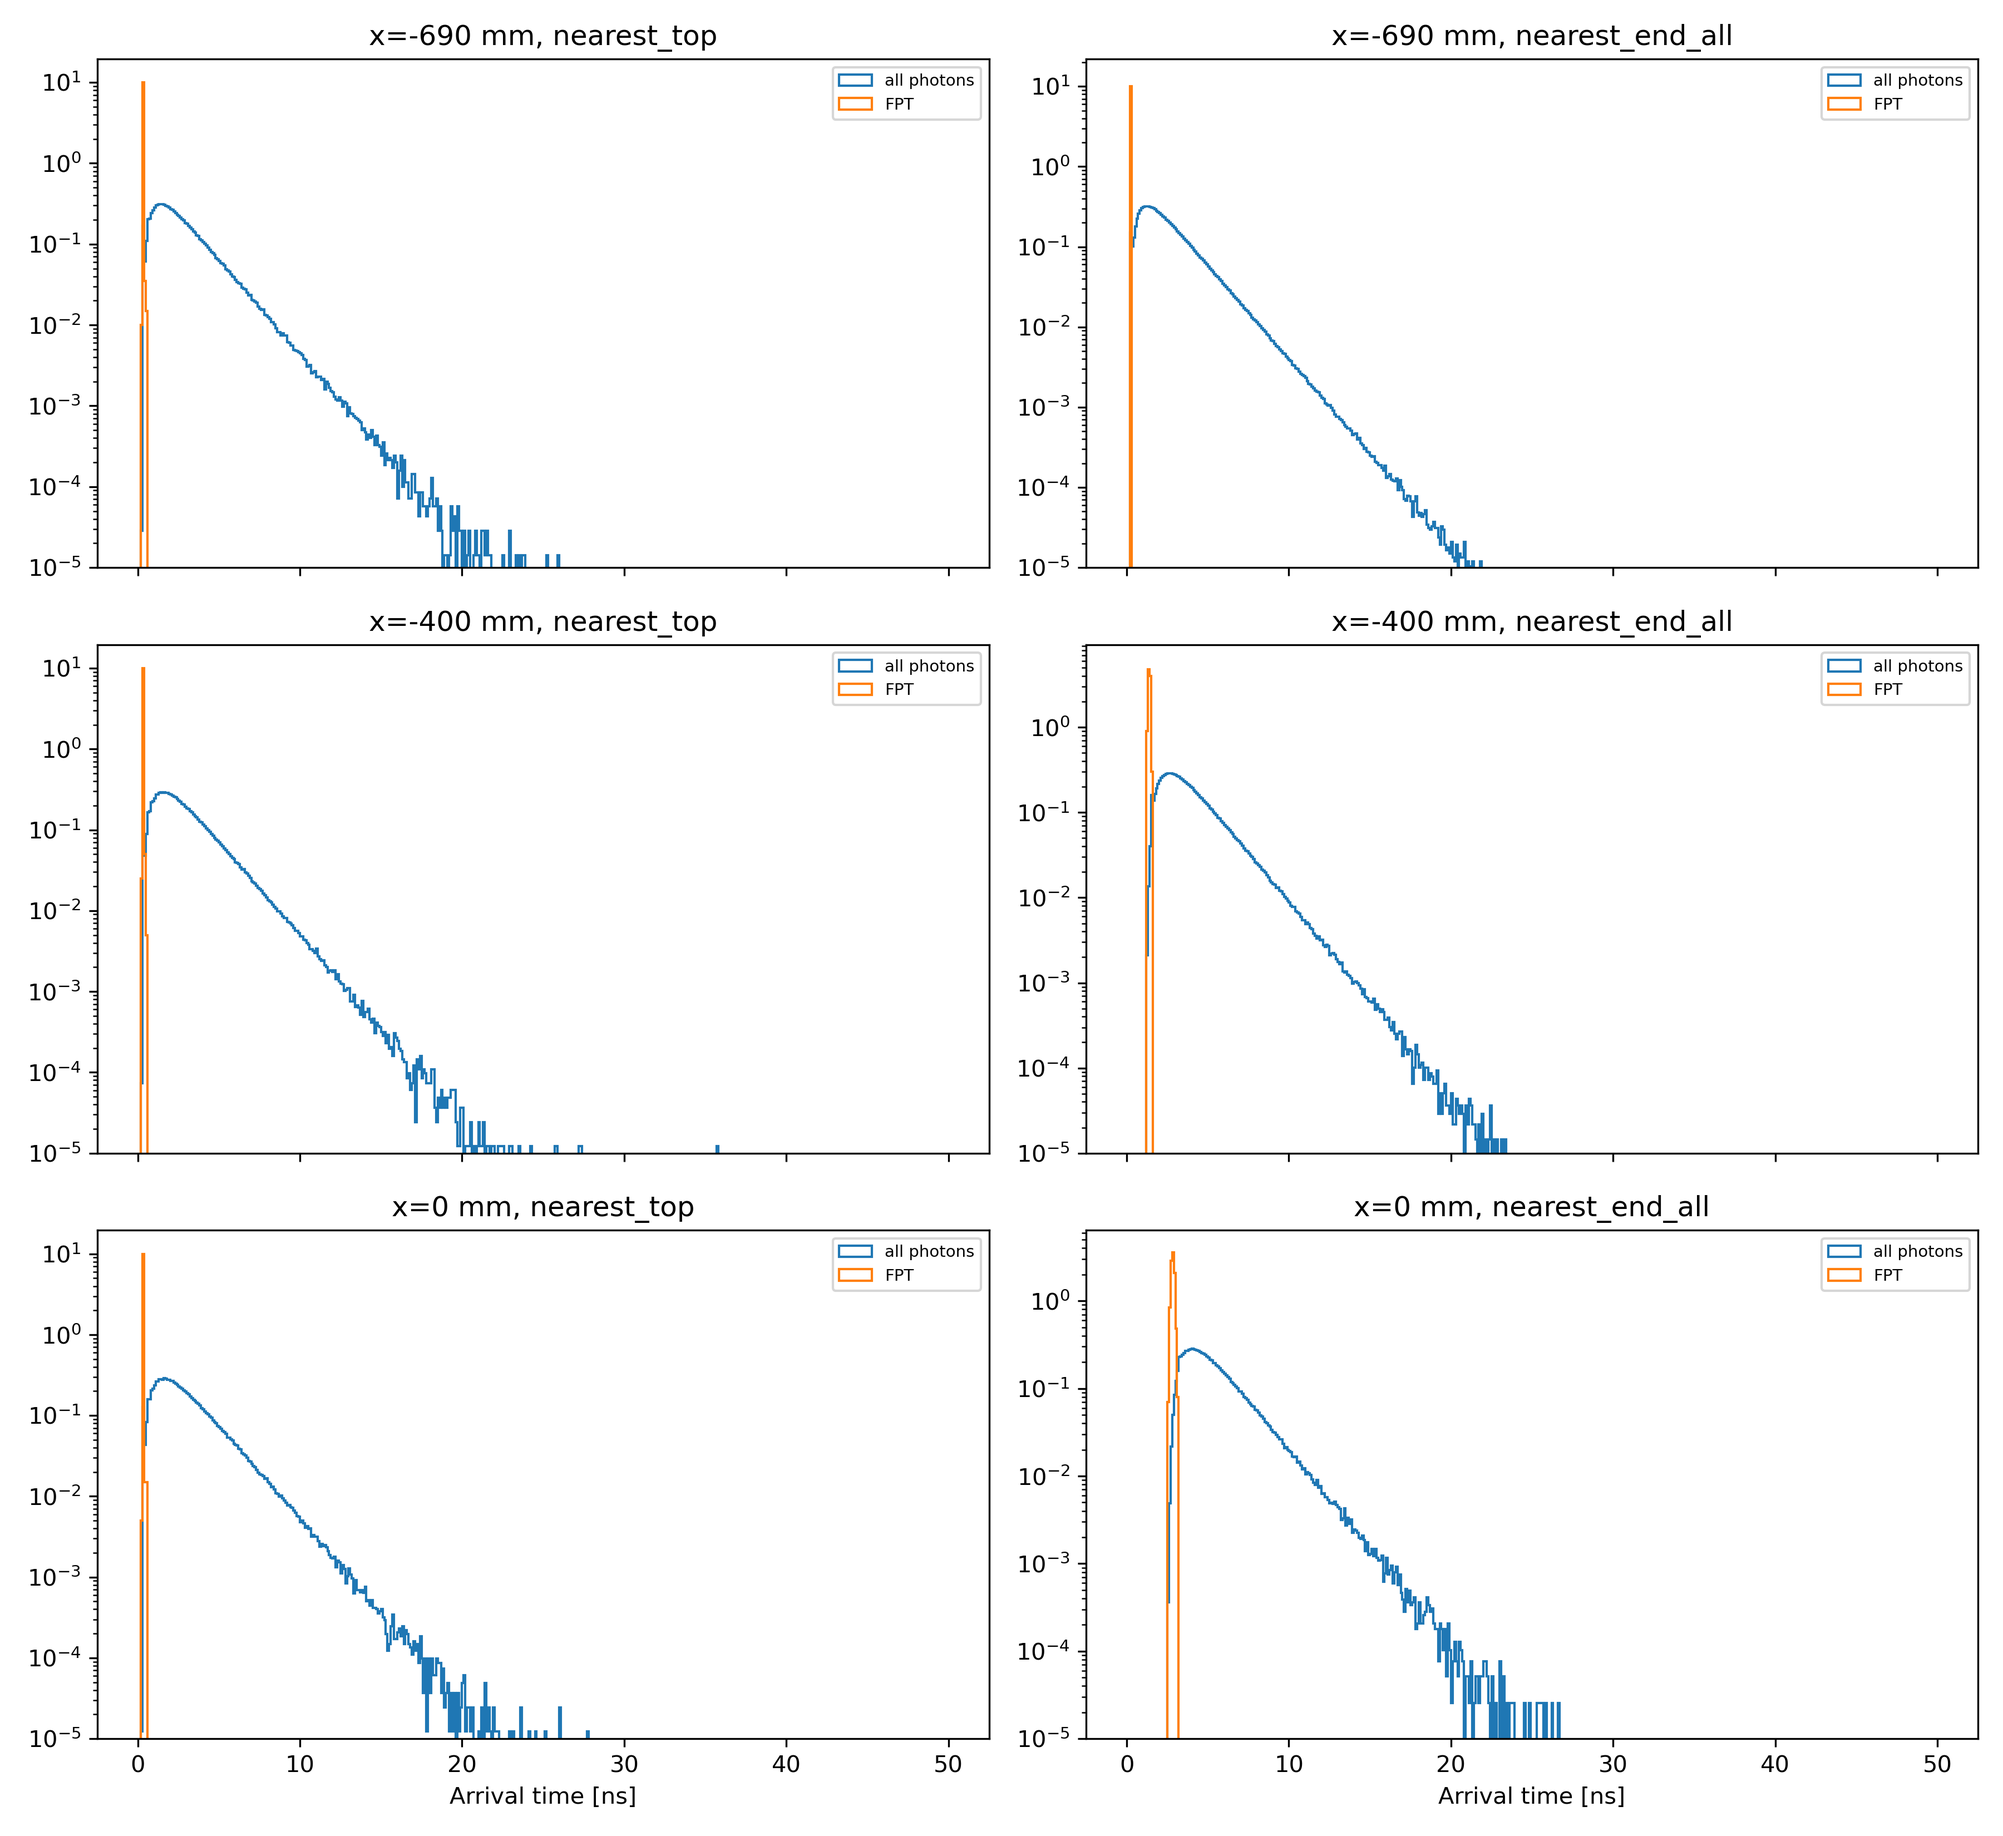
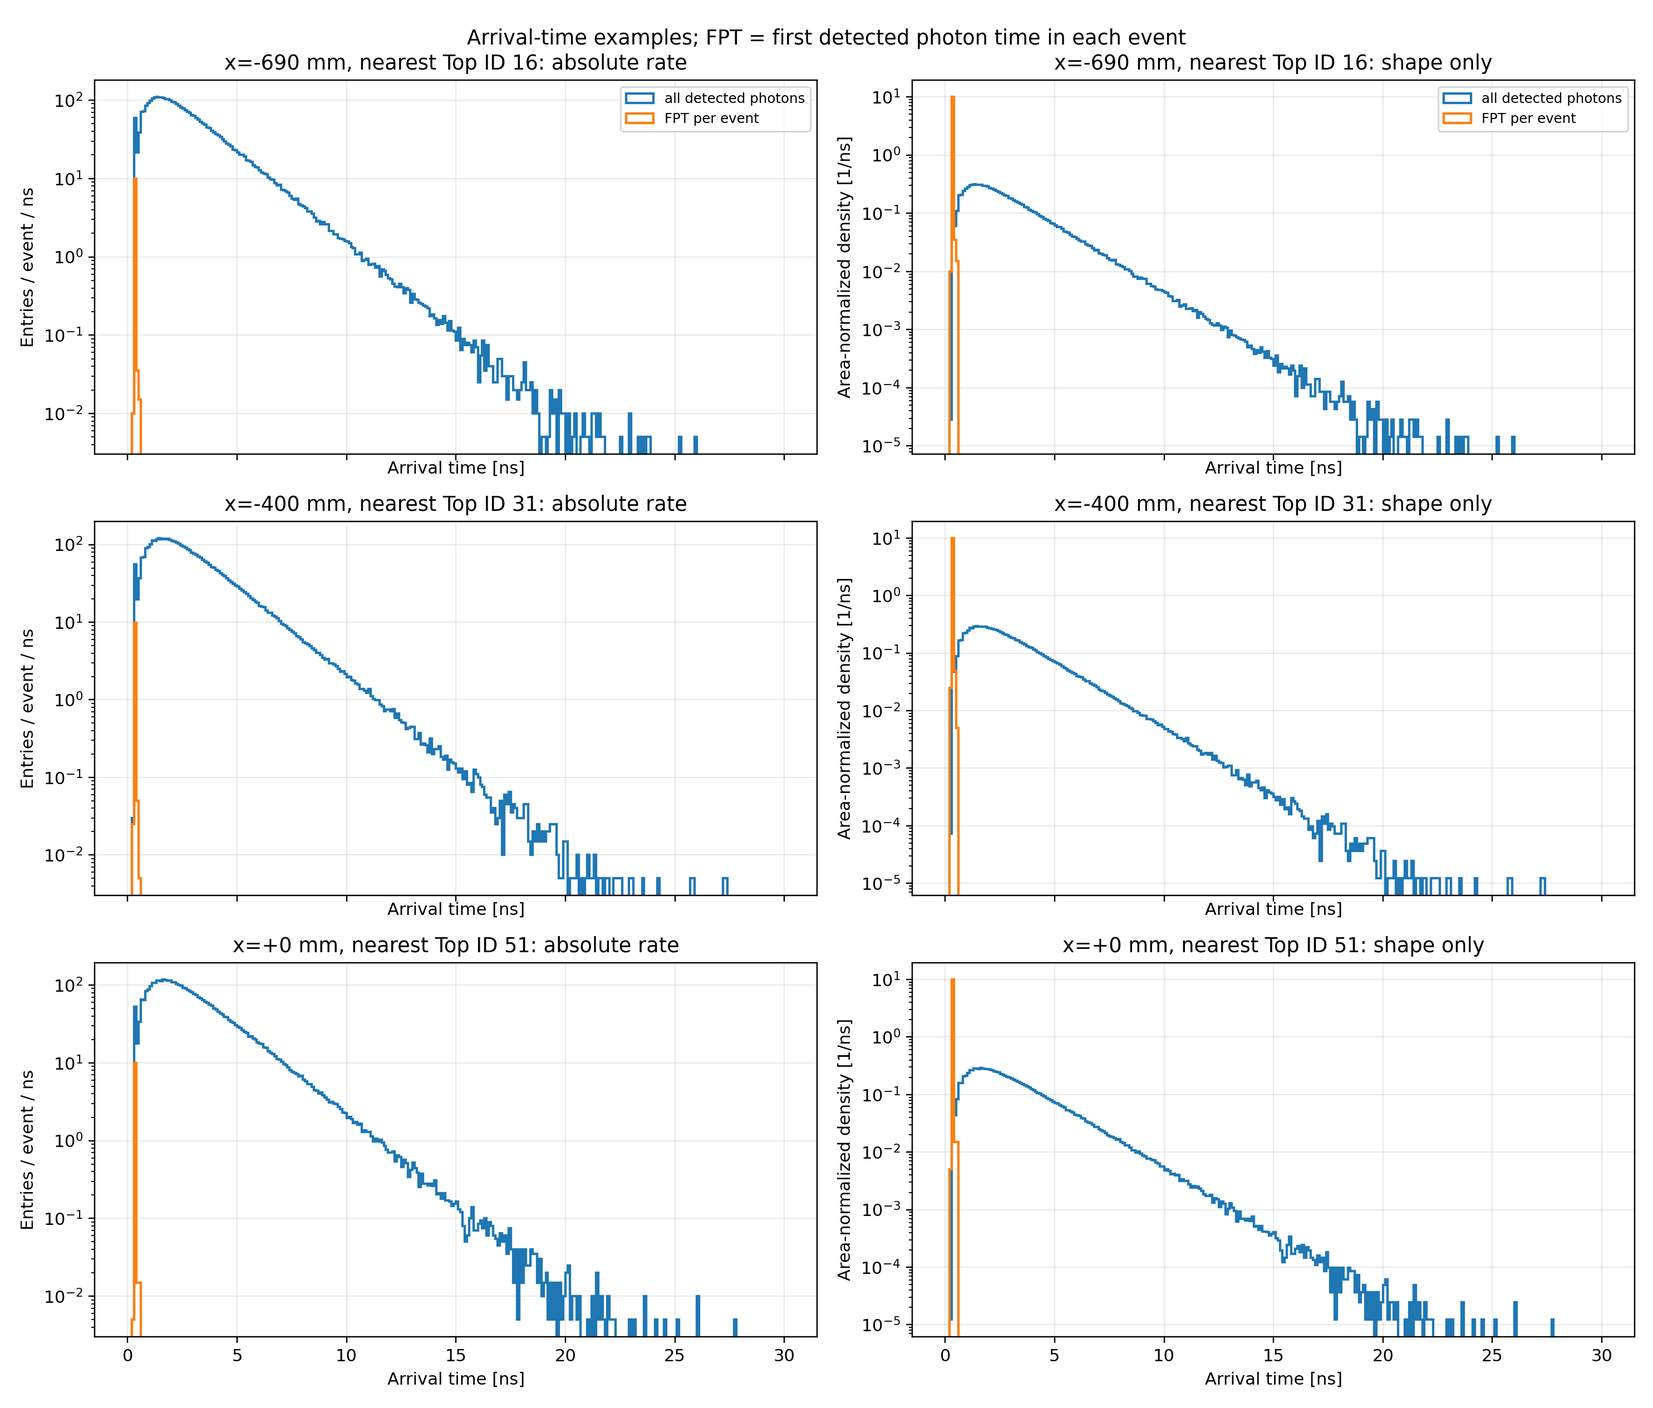
analysis(exec10): clarify absolute and normalized timing plots
Separates photon-rate loss from normalized tail-shape suppression and defines FPT in the arrival-time examples.

diff --git a/analysis/exec07/exec09_timing_mechanism.py b/analysis/exec07/exec09_timing_mechanism.py
@@ -82,8 +82,9 @@ def load_end_hits(path: pathlib.Path, expected_x: int) -> tuple[np.ndarray, np.n
     )
 
 
-def analyze_file(path: pathlib.Path, campaign: str, x_mm: int) -> tuple[list[dict], np.ndarray]:
+def analyze_file(path: pathlib.Path, campaign: str, x_mm: int) -> tuple[list[dict], np.ndarray, int]:
     event_id, global_id, time_ns = load_end_hits(path, x_mm)
+    n_events = int(np.max(event_id)) + 1
     rows = []
     for group, ids in GROUPS.items():
         selected = np.isin(global_id, ids)
@@ -98,7 +99,7 @@ def analyze_file(path: pathlib.Path, campaign: str, x_mm: int) -> tuple[list[dic
             row[name] = central[name]
             row[f"{name}_error"] = errors[name]
         rows.append(row)
-    return rows, time_ns
+    return rows, time_ns, n_events
 
 
 def comparisons(raw: pd.DataFrame) -> pd.DataFrame:
@@ -120,26 +121,29 @@ def comparisons(raw: pd.DataFrame) -> pd.DataFrame:
 
 
 def plot_overlays(
-    all_end: dict[tuple[str, int], np.ndarray], raw: pd.DataFrame, output: pathlib.Path,
+    all_end: dict[tuple[str, int], tuple[np.ndarray, int]], raw: pd.DataFrame, output: pathlib.Path,
 ) -> None:
     bins = np.linspace(0.0, 50.0, 251)
-    fig, axes = plt.subplots(1, 3, figsize=(14.5, 4.5), sharex=True, sharey=True)
-    for axis, x_mm in zip(axes, POSITIONS):
+    bin_width = bins[1] - bins[0]
+    fig, axes = plt.subplots(3, 2, figsize=(13.5, 12), sharex=True)
+    for row_index, x_mm in enumerate(POSITIONS):
         for campaign, color in (("End-only", "tab:blue"), ("EndTop", "tab:red")):
-            axis.hist(
-                all_end[(campaign, x_mm)],
-                bins=bins,
-                density=True,
-                histtype="step",
-                linewidth=1.5,
-                color=color,
-                label=campaign,
+            times, n_events = all_end[(campaign, x_mm)]
+            axes[row_index, 0].hist(
+                times, bins=bins,
+                weights=np.full(len(times), 1.0 / (n_events * bin_width)),
+                histtype="step", linewidth=1.5, color=color, label=campaign,
             )
-        axis.set_yscale("log")
-        axis.set_ylim(2e-6, 1.0)
-        axis.set_title(f"x beam = {x_mm:+d} mm")
-        axis.set_xlabel("End photon arrival time [ns]")
-        axis.grid(alpha=0.25)
+            axes[row_index, 1].hist(
+                times, bins=bins, density=True, histtype="step",
+                linewidth=1.5, color=color, label=campaign,
+            )
+        for axis in axes[row_index]:
+            axis.set_yscale("log")
+            axis.set_xlabel("End photon arrival time [ns]")
+            axis.grid(alpha=0.25)
+        axes[row_index, 0].set_title(f"x beam = {x_mm:+d} mm: absolute rate")
+        axes[row_index, 1].set_title(f"x beam = {x_mm:+d} mm: shape only")
         metrics_at_x = raw[(raw.x_beam_mm == x_mm) & (raw.group == "all_end")].set_index("campaign")
         annotation = []
         for campaign in ("End-only", "EndTop"):
@@ -149,14 +153,18 @@ def plot_overlays(
                 f"  f(t>10)={row.frac_gt10:.5f}+/-{row.frac_gt10_error:.5f}\n"
                 f"  f(t>20)={row.frac_gt20:.6f}+/-{row.frac_gt20_error:.6f}"
             )
-        axis.text(
-            0.98, 0.97, "\n".join(annotation), transform=axis.transAxes,
+        axes[row_index, 1].text(
+            0.98, 0.97, "\n".join(annotation), transform=axes[row_index, 1].transAxes,
             ha="right", va="top", fontsize=7,
             bbox={"facecolor": "white", "alpha": 0.82, "edgecolor": "0.75"},
         )
-    axes[0].set_ylabel("Normalized density [1/ns]")
-    axes[0].legend()
-    fig.suptitle("EXEC_09: End arrival-time tail, identical channels and t=0 convention")
+    for axis in axes[:, 0]:
+        axis.set_ylabel("Mean End photons / event / ns")
+    for axis in axes[:, 1]:
+        axis.set_ylabel("Area-normalized density [1/ns]")
+    axes[0, 0].legend()
+    axes[0, 1].legend()
+    fig.suptitle("EXEC_10: End arrival times - absolute photon rate and normalized shape")
     fig.tight_layout()
     output.parent.mkdir(parents=True, exist_ok=True)
     fig.savefig(output, dpi=180)
@@ -179,9 +187,9 @@ def main() -> int:
         ):
             path = directory / files[x_mm]
             print(f"{campaign} x={x_mm}: {path}", flush=True)
-            file_rows, all_times = analyze_file(path, campaign, x_mm)
+            file_rows, all_times, n_events = analyze_file(path, campaign, x_mm)
             rows.extend(file_rows)
-            all_end[(campaign, x_mm)] = all_times
+            all_end[(campaign, x_mm)] = (all_times, n_events)
 
     raw = pd.DataFrame(rows)
     compared = comparisons(raw)

diff --git a/analysis/exec07/exec10_time_figures.py b/analysis/exec07/exec10_time_figures.py
@@ -1,0 +1,69 @@
+#!/usr/bin/env python3
+"""Generate absolute and normalized arrival-time examples for EXEC_10."""
+
+from __future__ import annotations
+
+import argparse
+import pathlib
+
+import matplotlib.pyplot as plt
+import numpy as np
+import pandas as pd
+import uproot
+
+POSITIONS = (-690, -400, 0)
+BINS = np.linspace(0.0, 30.0, 301)
+
+
+def main() -> int:
+    parser = argparse.ArgumentParser()
+    parser.add_argument("--data-dir", required=True, type=pathlib.Path)
+    parser.add_argument("--output-dir", type=pathlib.Path, default=pathlib.Path("analysis/exec07"))
+    args = parser.parse_args()
+    positions = pd.read_csv(args.output_dir / "per_position_exec07.csv").set_index("x_beam_mm")
+    fig, axes = plt.subplots(3, 2, figsize=(13.5, 11.5), sharex=True)
+    bin_width = BINS[1] - BINS[0]
+    for row_index, x_mm in enumerate(POSITIONS):
+        nearest_id = int(positions.loc[x_mm, "nearest_top_id"])
+        with uproot.open(args.data_dir / f"photon_hits_x{x_mm}mm.root") as root_file:
+            arrays = root_file["sipm_hits"].arrays(["event_id", "global_id", "time_ns"], library="np")
+        selected = arrays["global_id"] == nearest_id
+        events = arrays["event_id"][selected].astype(np.int32)
+        times = arrays["time_ns"][selected].astype(float)
+        n_events = int(np.max(arrays["event_id"])) + 1
+        fpt = np.full(n_events, np.inf)
+        np.minimum.at(fpt, events, times)
+        fpt = fpt[np.isfinite(fpt)]
+        axes[row_index, 0].hist(
+            times, bins=BINS, weights=np.full(len(times), 1.0 / (n_events * bin_width)),
+            histtype="step", lw=1.4, label="all detected photons",
+        )
+        axes[row_index, 0].hist(
+            fpt, bins=BINS, weights=np.full(len(fpt), 1.0 / (n_events * bin_width)),
+            histtype="step", lw=1.4, label="FPT per event",
+        )
+        axes[row_index, 1].hist(times, bins=BINS, density=True, histtype="step", lw=1.4, label="all detected photons")
+        axes[row_index, 1].hist(fpt, bins=BINS, density=True, histtype="step", lw=1.4, label="FPT per event")
+        for axis in axes[row_index]:
+            axis.set_yscale("log")
+            axis.grid(alpha=0.25)
+            axis.set_xlabel("Arrival time [ns]")
+        axes[row_index, 0].set_title(f"x={x_mm:+d} mm, nearest Top ID {nearest_id}: absolute rate")
+        axes[row_index, 1].set_title(f"x={x_mm:+d} mm, nearest Top ID {nearest_id}: shape only")
+    for axis in axes[:, 0]:
+        axis.set_ylabel("Entries / event / ns")
+    for axis in axes[:, 1]:
+        axis.set_ylabel("Area-normalized density [1/ns]")
+    axes[0, 0].legend(fontsize=8)
+    axes[0, 1].legend(fontsize=8)
+    fig.suptitle("Arrival-time examples; FPT = first detected photon time in each event")
+    fig.tight_layout()
+    path = args.output_dir / "figs" / "P5_tdist_examples.png"
+    fig.savefig(path, dpi=220)
+    plt.close(fig)
+    print(f"wrote {path}")
+    return 0
+
+
+if __name__ == "__main__":
+    raise SystemExit(main())
